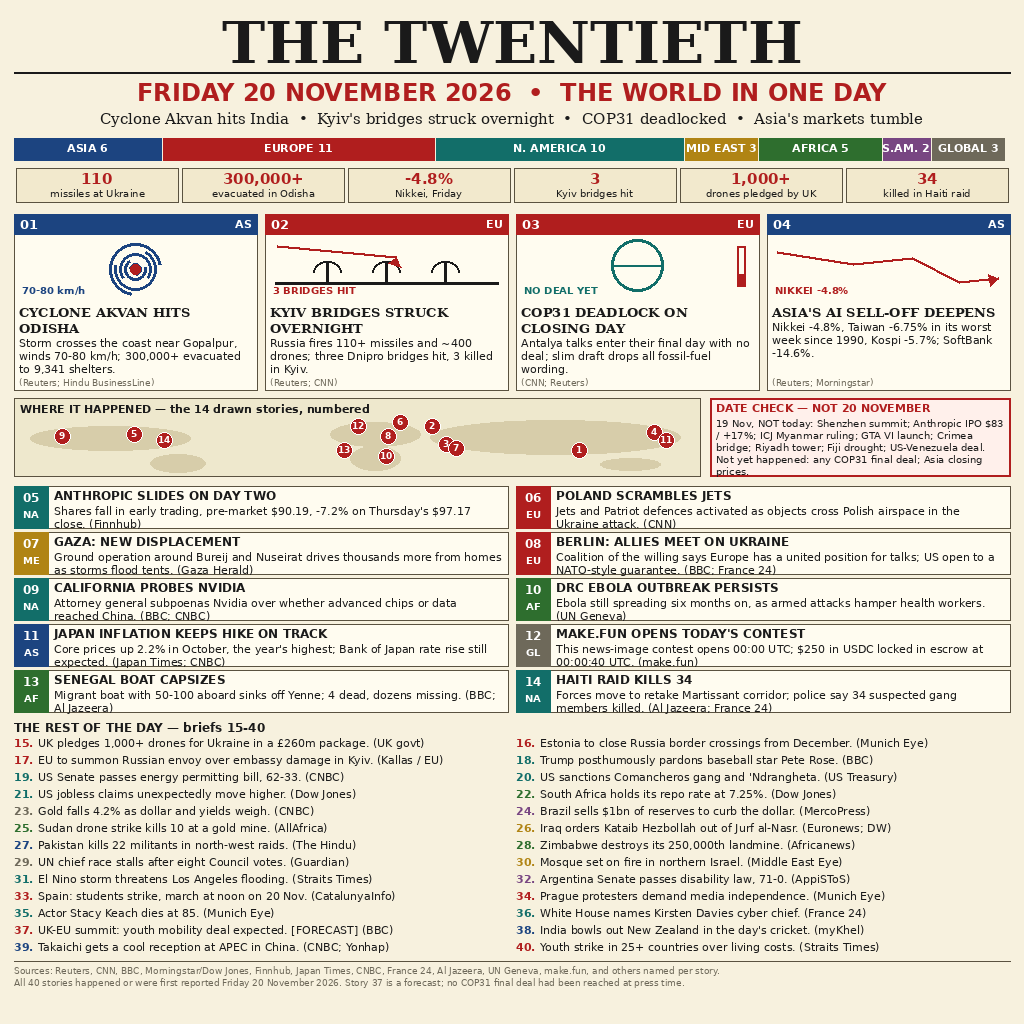
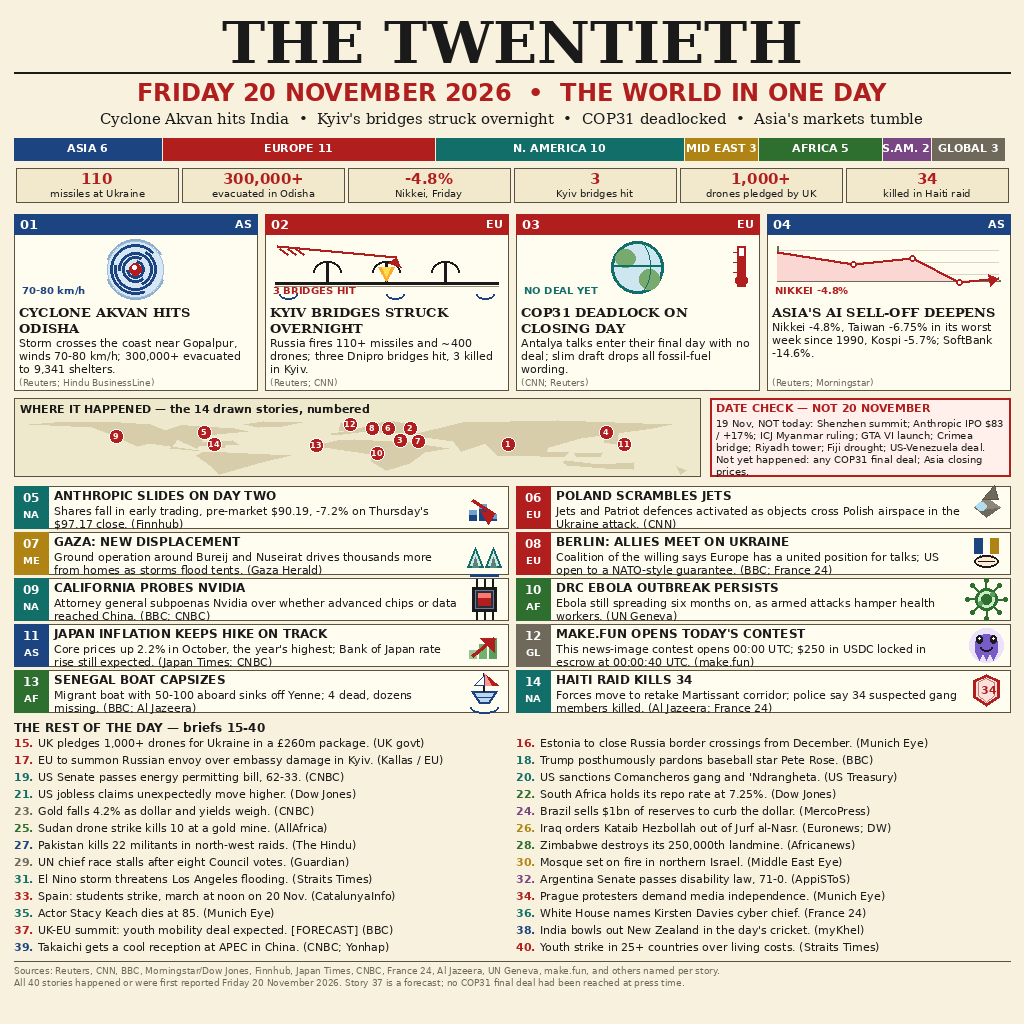
Update entry with polished versions

diff --git a/generate.py b/generate.py
@@ -124,104 +124,234 @@ def wrap(draw, text, fnt, width):
         lines.append(cur)
     return lines
 
-def draw_illus(d, idx, x, y, w, h):
-    """Code-drawn vector illustration per story, inside box (x,y,w,h)."""
+def draw_illus(d, idx, x, y, w, h, cap=True):
+    """Code-drawn vector illustration per story, inside box (x,y,w,h).
+    cap=False draws the icon without its caption line (feature rows)."""
     cx, cy = x + w // 2, y + h // 2
     if idx == 1:  # cyclone spiral
-        for r in range(6, min(w, h) // 2, 5):
+        rr = min(w, h) // 2 - 3
+        d.ellipse([cx - rr, cy - rr, cx + rr, cy + rr], fill=(214, 230, 244))
+        d.ellipse([cx - rr, cy - rr, cx + rr, cy + rr], outline=(160, 190, 220), width=1)
+        for r in range(5, rr, 4):
             a0 = r * 0.55
             d.arc([cx - r, cy - r, cx + r, cy + r], math.degrees(a0), math.degrees(a0) + 250,
                   fill=BLUE, width=3)
-        d.ellipse([cx - 5, cy - 5, cx + 5, cy + 5], fill=RED)
-        d.text((x + 4, y + h - 16), "70-80 km/h", font=SANS_B(10), fill=BLUE)
+        d.arc([cx - rr - 2, cy - rr - 2, cx + rr + 2, cy + rr + 2], 20, 160, fill=(140, 175, 210), width=2)
+        d.arc([cx - rr - 2, cy - rr - 2, cx + rr + 2, cy + rr + 2], 200, 330, fill=(140, 175, 210), width=2)
+        d.ellipse([cx - 6, cy - 6, cx + 6, cy + 6], fill=RED)
+        d.ellipse([cx - 3, cy - 4, cx + 1, cy], fill=(255, 255, 255))
+        if cap:
+            d.text((x + 4, y + h - 16), "70-80 km/h", font=SANS_B(10), fill=BLUE)
     elif idx == 2:  # bridge + missile
+        ar = 14 if cap else 6
         d.line([x + 6, cy + 14, x + w - 6, cy + 14], fill=INK, width=3)
+        d.line([x + 6, cy + 17, x + w - 6, cy + 17], fill=(150, 140, 120), width=1)
         for px in (x + w * 0.25, x + w * 0.5, x + w * 0.75):
             d.line([px, cy + 14, px, cy - 8], fill=INK, width=3)
-            d.arc([px - 14, cy - 8, px + 14, cy + 14], 180, 360, fill=INK, width=2)
+            d.arc([px - ar, cy - 8, px + ar, cy + 14], 180, 360, fill=INK, width=2)
+        if cap:
+            d.polygon([(x + w * 0.5 - 8, cy - 2), (x + w * 0.5 + 8, cy - 2), (x + w * 0.5, cy + 12)],
+                      fill=(255, 170, 40))
+            d.polygon([(x + w * 0.5 - 4, cy - 2), (x + w * 0.5 + 4, cy - 2), (x + w * 0.5, cy + 8)],
+                      fill=(255, 220, 80))
+            for dx in (0, 8, 16):
+                d.line([x + 10 + dx, y + 10, x + 18 + dx, y + 16], fill=RED, width=2)
+            for wx in (x + 10, x + w // 2, x + w - 28):
+                d.arc([wx, cy + 20, wx + 18, cy + 30], 0, 180, fill=BLUE, width=2)
         d.line([x + 8, y + 8, cx + 10, cy - 12], fill=RED, width=3)
         d.polygon([(cx + 10, cy - 12), (cx + 2, cy - 6), (cx + 14, cy - 2)], fill=RED)
-        d.text((x + 4, y + h - 16), "3 BRIDGES HIT", font=SANS_B(10), fill=RED)
+        if cap:
+            d.text((x + 4, y + h - 16), "3 BRIDGES HIT", font=SANS_B(10), fill=RED)
     elif idx == 3:  # globe + thermometer
-        d.ellipse([cx - 26, cy - 30, cx + 26, cy + 22], outline=TEAL, width=3)
-        d.arc([cx - 26, cy - 30, cx + 26, cy + 22], 200, 340, fill=TEAL, width=2)
-        d.line([cx - 26, cy - 4, cx + 26, cy - 4], fill=TEAL, width=2)
-        d.rectangle([x + w - 18, y + 8, x + w - 10, y + h - 14], outline=RED, width=2)
-        d.rectangle([x + w - 16, y + h - 26, x + w - 12, y + h - 16], fill=RED)
-        d.text((x + 4, y + h - 16), "NO DEAL YET", font=SANS_B(10), fill=TEAL)
+        gr = 26 if cap else 14
+        gcx = cx if cap else cx - 4
+        d.ellipse([gcx - gr, cy - gr - 2, gcx + gr, cy + gr - 2], fill=(205, 230, 240))
+        d.ellipse([gcx - gr, cy - gr - 2, gcx + gr, cy + gr - 2], outline=TEAL, width=3)
+        d.ellipse([gcx - gr + 4, cy - gr + 6, gcx - 2, cy - 2], fill=(120, 170, 110))
+        d.ellipse([gcx + 2, cy, gcx + gr - 4, cy + gr - 6], fill=(120, 170, 110))
+        d.line([gcx - gr, cy - 4, gcx + gr, cy - 4], fill=TEAL, width=2)
+        d.arc([gcx - gr // 2, cy - gr - 2, gcx + gr // 2, cy + gr - 2], 270, 90, fill=TEAL, width=1)
+        if cap:
+            d.rectangle([x + w - 18, y + 8, x + w - 10, y + h - 14], fill=(255, 255, 255), outline=RED, width=2)
+            d.rectangle([x + w - 16, y + 18, x + w - 12, y + h - 18], fill=RED)
+            d.ellipse([x + w - 20, y + h - 26, x + w - 8, y + h - 14], fill=RED)
+            for ty in (y + 14, y + 24, y + 34):
+                d.line([x + w - 22, ty, x + w - 18, ty], fill=RED, width=1)
+            d.text((x + 4, y + h - 16), "NO DEAL YET", font=SANS_B(10), fill=TEAL)
     elif idx == 4:  # falling chart
+        for gy in (y + 12, y + 24, y + 36):
+            d.line([x + 6, gy, x + w - 8, gy], fill=(220, 212, 190), width=1)
+        d.line([x + 6, y + 8, x + 6, y + h - 20], fill=GREY, width=2)
+        d.line([x + 6, y + h - 20, x + w - 6, y + h - 20], fill=GREY, width=2)
         pts = [(x + 6, y + 14), (x + w * 0.35, y + 26), (x + w * 0.6, y + 20),
                (x + w * 0.8, y + 44), (x + w - 8, y + h - 22)]
+        if cap:
+            d.polygon(pts + [(x + w - 8, y + h - 20), (x + 6, y + h - 20)], fill=(250, 215, 210))
         d.line(pts, fill=RED, width=3, joint="curve")
+        for px, py in pts[1:-1]:
+            d.ellipse([px - 3, py - 3, px + 3, py + 3], fill=(255, 255, 255), outline=RED, width=2)
         d.polygon([(x + w - 8, y + h - 22), (x + w - 18, y + h - 26), (x + w - 16, y + h - 14)],
                   fill=RED)
-        d.text((x + 4, y + h - 16), "NIKKEI -4.8%", font=SANS_B(10), fill=RED)
+        if cap:
+            d.text((x + 4, y + h - 16), "NIKKEI -4.8%", font=SANS_B(10), fill=RED)
     elif idx == 5:  # stock arrow down
-        d.rectangle([x + 8, y + h - 34, x + 20, y + h - 18], fill=BLUE)
-        d.rectangle([x + 26, y + h - 44, x + 38, y + h - 18], fill=BLUE)
-        d.rectangle([x + 44, y + h - 28, x + 56, y + h - 18], fill=BLUE)
-        d.line([x + 8, y + 12, x + w - 10, y + h - 30], fill=RED, width=3)
-        d.polygon([(x + w - 10, y + h - 30), (x + w - 24, y + h - 34), (x + w - 16, y + h - 16)],
+        bw5 = 12 if cap else 7
+        base5 = y + h - 18 if cap else y + h - 6
+        bars5 = [(x + 8, base5 - 16, 16), (x + 26, base5 - 26, 26), (x + 44, base5 - 10, 10)] if cap else \
+                [(x + 5, base5 - 10, 10), (x + 15, base5 - 16, 16), (x + 25, base5 - 6, 6)]
+        for bx, by, bh in bars5:
+            d.rectangle([bx, by, bx + bw5, base5], fill=BLUE)
+            d.rectangle([bx, by, bx + bw5, by + 4], fill=(110, 160, 210))
+        d.line([x + 8, y + 12, x + w - 10, y + h - 30 if cap else y + h - 12], fill=RED, width=3)
+        d.polygon([(x + w - 10, y + h - 30 if cap else y + h - 12),
+                   (x + w - 24, y + h - 34 if cap else y + h - 16),
+                   (x + w - 16, y + h - 16 if cap else y + h - 2)],
                   fill=RED)
-        d.text((x + 4, y + h - 16), "ANT -7.2% DAY 2", font=SANS_B(10), fill=RED)
+        if cap:
+            d.ellipse([x + 8, y + 12, x + 14, y + 18], fill=RED)
+            d.text((x + 4, y + h - 16), "ANT -7.2% DAY 2", font=SANS_B(10), fill=RED)
     elif idx == 6:  # jet
+        if cap:
+            d.ellipse([x + 6, y + 4, x + 26, y + 14], fill=(235, 240, 245))
+            d.ellipse([x + w - 34, y + 2, x + w - 14, y + 12], fill=(235, 240, 245))
         d.polygon([(x + 8, cy), (x + w - 20, cy - 10), (x + w - 6, cy), (x + w - 20, cy + 10)],
                   fill=GREY)
+        d.polygon([(x + 8, cy), (x + w - 20, cy - 10), (x + w - 6, cy), (x + w - 20, cy + 2)],
+                  fill=(140, 135, 120))
         d.polygon([(cx - 4, cy - 8), (cx + 8, cy - 22), (cx + 12, cy - 8)], fill=GREY)
-        d.line([x + 6, cy + 12, x + w - 8, cy + 12], fill=BLUE, width=2)
-        d.text((x + 4, y + h - 16), "AIRSPACE BREACH", font=SANS_B(10), fill=BLUE)
+        d.polygon([(cx - 4, cy - 8), (cx + 8, cy - 22), (cx + 12, cy - 8)], outline=(90, 85, 70), width=1)
+        d.ellipse([x + w - 30, cy - 5, x + w - 20, cy + 3], fill=(180, 220, 240))
+        if cap:
+            for dx in (0, 14, 28):
+                d.line([x + 8 + dx, cy + 16, x + 16 + dx, cy + 16], fill=BLUE, width=2)
+            d.line([x + 6, cy + 12, x + w - 8, cy + 12], fill=BLUE, width=2)
+            d.text((x + 4, y + h - 16), "AIRSPACE BREACH", font=SANS_B(10), fill=BLUE)
     elif idx == 7:  # tents / displacement
-        for i, tx in enumerate((x + 10, x + w // 2 - 8, x + w - 34)):
-            d.polygon([(tx, cy + 16), (tx + 12, cy - 10), (tx + 24, cy + 16)],
-                      outline=TEAL, width=2, fill=(210, 230, 225))
+        if cap:
+            for i, tx in enumerate((x + 10, x + w // 2 - 8, x + w - 34)):
+                d.polygon([(tx, cy + 16), (tx + 12, cy - 10), (tx + 24, cy + 16)],
+                          outline=TEAL, width=2, fill=(210, 230, 225))
+                d.polygon([(tx + 8, cy + 16), (tx + 12, cy + 4), (tx + 16, cy + 16)],
+                          fill=(90, 130, 125))
+                d.line([tx + 12, cy - 10, tx + 12, cy - 16], fill=TEAL, width=1)
+            for rx, ry in ((x + 20, y + 6), (x + 60, y + 4), (x + 110, y + 6), (x + 170, y + 4), (x + 210, y + 6)):
+                d.line([rx, ry, rx - 2, ry + 6], fill=BLUE, width=2)
+        else:
+            for tx in (x + 3, x + 21):
+                d.polygon([(tx, cy + 14), (tx + 8, cy - 6), (tx + 16, cy + 14)],
+                          outline=TEAL, width=2, fill=(210, 230, 225))
+                d.polygon([(tx + 5, cy + 14), (tx + 8, cy + 4), (tx + 11, cy + 14)],
+                          fill=(90, 130, 125))
+        d.ellipse([x + w - 30, cy + 20, x + w - 8, cy + 26], fill=(180, 210, 235)) if cap else None
         d.line([x + 6, cy + 22, x + w - 6, cy + 22], fill=BLUE, width=3)
-        d.text((x + 4, y + h - 16), "WINTER RAINS", font=SANS_B(10), fill=TEAL)
+        if cap:
+            d.text((x + 4, y + h - 16), "WINTER RAINS", font=SANS_B(10), fill=TEAL)
     elif idx == 8:  # handshake flags
-        d.rectangle([x + 8, y + 10, x + w // 2 - 4, y + 34], fill=BLUE)
-        d.rectangle([x + w // 2 + 4, y + 10, x + w - 8, y + 34], fill=GOLD)
-        d.line([x + 14, y + 44, cx, y + h - 22], fill=INK, width=3)
-        d.line([x + w - 14, y + 44, cx, y + h - 22], fill=INK, width=3)
-        d.text((x + 4, y + h - 16), "UNITED POSITION", font=SANS_B(10), fill=INK)
+        fb = y + 34 if cap else y + 20
+        d.rectangle([x + 8, y + 10 if cap else y + 4, x + w // 2 - 4, fb], fill=BLUE)
+        d.rectangle([x + w // 2 + 4, y + 10 if cap else y + 4, x + w - 8, fb], fill=GOLD)
+        if cap:
+            for sx in range(5):
+                d.ellipse([x + 14 + sx * 18, y + 16, x + 18 + sx * 18, y + 20], fill=(255, 220, 90))
+        d.line([x + 8, fb, x + w // 2 - 4, fb], fill=(255, 255, 255), width=1)
+        d.line([x + w // 2 + 4, fb, x + w - 8, fb], fill=(255, 255, 255), width=1)
+        hy = y + h - 24 if cap else cy + 8
+        d.polygon([(x + 14, y + 40 if cap else cy + 2), (cx - 6, y + 40 if cap else cy + 2),
+                   (cx, hy), (cx - 12, hy)], fill=BLUE)
+        d.polygon([(x + w - 14, y + 40 if cap else cy + 2), (cx + 6, y + 40 if cap else cy + 2),
+                   (cx, hy), (cx + 12, hy)], fill=GOLD)
+        d.ellipse([cx - 12, hy - 6, cx + 12, hy + 6], fill=(255, 235, 210), outline=INK, width=2)
+        d.line([cx - 8, hy, cx + 8, hy], fill=INK, width=1)
+        if cap:
+            d.text((x + 4, y + h - 16), "UNITED POSITION", font=SANS_B(10), fill=INK)
     elif idx == 9:  # chip
-        d.rectangle([cx - 16, cy - 16, cx + 16, cy + 16], outline=INK, width=3)
+        cs = 16 if cap else 12
+        d.rectangle([cx - cs, cy - cs, cx + cs, cy + cs], fill=(40, 45, 60), outline=INK, width=3)
+        d.rectangle([cx - cs + 3, cy - cs + 3, cx + cs - 3, cy + cs - 3], outline=(110, 120, 150), width=1)
         for i in range(3):
-            d.line([cx - 16 + i * 16, cy - 24, cx - 16 + i * 16, cy - 16], fill=INK, width=2)
-            d.line([cx - 16 + i * 16, cy + 16, cx - 16 + i * 16, cy + 24], fill=INK, width=2)
+            px = cx - cs + 6 + i * (2 * cs - 12) // 2 if cap else cx - cs + 4 + i * (2 * cs - 8) // 2
+            d.line([px, cy - cs - 8, px, cy - cs], fill=INK, width=2)
+            d.line([px, cy + cs, px, cy + cs + 8], fill=INK, width=2)
+            d.line([cx - cs - 8, cy - cs + 6 + i * (2 * cs - 12) // 2, cx - cs, cy - cs + 6 + i * (2 * cs - 12) // 2], fill=INK, width=2) if cap else None
+            d.line([cx + cs, cy - cs + 6 + i * (2 * cs - 12) // 2, cx + cs + 8, cy - cs + 6 + i * (2 * cs - 12) // 2], fill=INK, width=2) if cap else None
         d.rectangle([cx - 6, cy - 6, cx + 6, cy + 6], fill=RED)
-        d.text((x + 4, y + h - 16), "CHIP PROBE", font=SANS_B(10), fill=INK)
+        d.rectangle([cx - 6, cy - 6, cx + 6, cy - 2], fill=(255, 120, 110))
+        if cap:
+            d.text((cx - 3, cy + 10), "AI", font=SANS_B(8), fill=(255, 255, 255))
+            d.text((x + 4, y + h - 16), "CHIP PROBE", font=SANS_B(10), fill=INK)
     elif idx == 10:  # virus
-        d.ellipse([cx - 14, cy - 14, cx + 14, cy + 14], outline=GREEN, width=3)
+        vr = 14 if cap else 11
+        d.ellipse([cx - vr, cy - vr, cx + vr, cy + vr], fill=(200, 235, 200), outline=GREEN, width=3)
         for a in range(0, 360, 45):
             r = math.radians(a)
-            d.line([cx + 14 * math.cos(r), cy + 14 * math.sin(r),
-                    cx + 22 * math.cos(r), cy + 22 * math.sin(r)], fill=GREEN, width=2)
-        d.text((x + 4, y + h - 16), "6 MONTHS ON", font=SANS_B(10), fill=GREEN)
+            d.line([cx + vr * math.cos(r), cy + vr * math.sin(r),
+                    cx + (vr + 8) * math.cos(r), cy + (vr + 8) * math.sin(r)], fill=GREEN, width=2)
+            d.ellipse([cx + (vr + 8) * math.cos(r) - 2, cy + (vr + 8) * math.sin(r) - 2,
+                       cx + (vr + 8) * math.cos(r) + 2, cy + (vr + 8) * math.sin(r) + 2], fill=GREEN)
+        d.ellipse([cx - 5, cy - 5, cx + 5, cy + 5], fill=GREEN)
+        d.ellipse([cx - 8, cy + 2, cx - 4, cy + 6], fill=(90, 160, 90))
+        d.ellipse([cx + 4, cy - 7, cx + 8, cy - 3], fill=(90, 160, 90))
+        if cap:
+            d.text((x + 4, y + h - 16), "6 MONTHS ON", font=SANS_B(10), fill=GREEN)
     elif idx == 11:  # rising arrow / yen
-        d.line([x + 8, y + h - 20, x + w - 10, y + 12], fill=RED, width=3)
+        if cap:
+            for gy in (y + 12, y + 24, y + 36):
+                d.line([x + 6, gy, x + w - 8, gy], fill=(220, 212, 190), width=1)
+            d.rectangle([x + 14, y + 34, x + 30, y + h - 20], fill=(190, 220, 190))
+            d.rectangle([x + 40, y + 26, x + 56, y + h - 20], fill=(150, 200, 150))
+            d.rectangle([x + 66, y + 18, x + 82, y + h - 20], fill=(110, 180, 110))
+        else:
+            d.rectangle([x + 5, y + 24, x + 12, y + h - 6], fill=(150, 200, 150))
+            d.rectangle([x + 15, y + 18, x + 22, y + h - 6], fill=(110, 180, 110))
+            d.rectangle([x + 25, y + 12, x + 32, y + h - 6], fill=(90, 160, 90))
+        d.line([x + 8, y + h - 20 if cap else y + h - 8, x + w - 10, y + 12], fill=RED, width=3)
         d.polygon([(x + w - 10, y + 12), (x + w - 24, y + 12), (x + w - 10, y + 26)], fill=RED)
-        d.text((x + 4, y + h - 16), "CPI +2.2%", font=SANS_B(10), fill=RED)
+        if cap:
+            d.text((x + 4, y + h - 16), "CPI +2.2%", font=SANS_B(10), fill=RED)
     elif idx == 12:  # make.fun ghost
-        d.ellipse([cx - 18, cy - 20, cx + 18, cy + 8], fill=(120, 90, 200))
-        d.rectangle([cx - 18, cy - 4, cx + 18, cy + 18], fill=(120, 90, 200))
-        for i, gx in enumerate((cx - 18, cx - 6, cx + 6)):
-            d.polygon([(gx, cy + 18), (gx + 6, cy + 28), (gx + 12, cy + 18)],
+        gr12 = 20 if cap else 13
+        d.ellipse([cx - gr12 - 4, cy - gr12 - 4, cx + gr12 + 4, cy + gr12 + 4], fill=(235, 225, 250))
+        d.ellipse([cx - gr12 + 2, cy - gr12 + 2, cx + gr12 - 2, cy + gr12 - 6], fill=(120, 90, 200))
+        d.rectangle([cx - gr12 + 2, cy - 2, cx + gr12 - 2, cy + gr12 - 6], fill=(120, 90, 200))
+        tw = 12 if cap else 8
+        for gx in (cx - gr12 + 2, cx - tw // 2, cx + gr12 - 2 - tw):
+            d.polygon([(gx, cy + gr12 - 6), (gx + tw // 2, cy + gr12 + 2), (gx + tw, cy + gr12 - 6)],
                       fill=(120, 90, 200))
         d.ellipse([cx - 10, cy - 10, cx - 4, cy - 2], fill=INK)
         d.ellipse([cx + 4, cy - 10, cx + 10, cy - 2], fill=INK)
-        d.text((x + 4, y + h - 16), "$250 ESCROW", font=SANS_B(10), fill=(120, 90, 200))
+        d.ellipse([cx - 8, cy - 8, cx - 6, cy - 6], fill=(255, 255, 255))
+        d.ellipse([cx + 6, cy - 8, cx + 8, cy - 6], fill=(255, 255, 255))
+        d.arc([cx - 6, cy - 2, cx + 6, cy + 6], 0, 180, fill=INK, width=2)
+        if cap:
+            d.ellipse([x + w - 30, y + 8, x + w - 12, y + 26], fill=(255, 210, 80), outline=GOLD, width=2)
+            d.text((x + w - 23, y + 11), "$", font=SANS_B(11), fill=GOLD, anchor="ma")
+            d.text((x + 4, y + h - 16), "$250 ESCROW", font=SANS_B(10), fill=(120, 90, 200))
     elif idx == 13:  # boat + waves
-        d.polygon([(cx - 20, cy), (cx + 20, cy), (cx + 12, cy + 12), (cx - 12, cy + 12)],
-                  outline=BLUE, width=2)
+        bw13 = 20 if cap else 13
+        d.polygon([(cx - bw13, cy), (cx + bw13, cy), (cx + bw13 - 8, cy + 12), (cx - bw13 + 8, cy + 12)],
+                  outline=BLUE, width=2, fill=(190, 215, 240))
+        d.line([cx - bw13 + 4, cy + 6, cx + bw13 - 4, cy + 6], fill=BLUE, width=1)
         d.line([cx, cy, cx, cy - 18], fill=INK, width=2)
         d.polygon([(cx, cy - 18), (cx + 14, cy - 6), (cx, cy - 6)], fill=RED)
-        for wy in (cy + 20, cy + 28):
+        d.polygon([(cx, cy - 18), (cx + 7, cy - 6), (cx, cy - 6)], fill=(255, 150, 140))
+        d.polygon([(cx, cy - 16), (cx - 10, cy - 6), (cx, cy - 6)], fill=(255, 255, 255), outline=BLUE, width=1)
+        for wy in ((cy + 20, cy + 28) if cap else (cy + 16,)):
             d.arc([x + 6, wy - 6, x + w - 6, wy + 6], 0, 180, fill=BLUE, width=2)
-        d.text((x + 4, y + h - 16), "4 DEAD, DOZENS LOST", font=SANS_B(9), fill=BLUE)
+        if cap:
+            d.text((x + 4, y + h - 16), "4 DEAD, DOZENS LOST", font=SANS_B(9), fill=BLUE)
     else:  # 14 shield / raid
-        d.polygon([(cx, y + 8), (cx + 20, y + 16), (cx + 20, y + 34), (cx, y + 52),
-                   (cx - 20, y + 34), (cx - 20, y + 16)], outline=RED, width=3)
-        d.text((cx - 5, cy - 8), "34", font=SANS_B(16), fill=RED)
-        d.text((x + 4, y + h - 16), "CORRIDOR RETAKEN", font=SANS_B(9), fill=RED)
+        sh = 20 if cap else 13
+        d.polygon([(cx, y + 8 if cap else y + 2), (cx + sh, y + 16 if cap else y + 8),
+                   (cx + sh, y + 34 if cap else cy + 6), (cx, y + 52 if cap else y + h - 4),
+                   (cx - sh, y + 34 if cap else cy + 6), (cx - sh, y + 16 if cap else y + 8)],
+                  fill=(250, 225, 220), outline=RED, width=3)
+        d.polygon([(cx, y + 12 if cap else y + 6), (cx + sh - 5, y + 18 if cap else y + 10),
+                   (cx + sh - 5, y + 32 if cap else cy + 4), (cx, y + 46 if cap else y + h - 8),
+                   (cx - sh + 5, y + 32 if cap else cy + 4), (cx - sh + 5, y + 18 if cap else y + 10)],
+                  outline=(200, 120, 110), width=1)
+        d.text((cx - 5, cy - 8), "34", font=SANS_B(16 if cap else 11), fill=RED)
+        if cap:
+            d.text((x + 4, y + h - 16), "CORRIDOR RETAKEN", font=SANS_B(9), fill=RED)
 
 def main():
     img = Image.new("RGB", (W, H), CREAM)
@@ -288,21 +418,49 @@ def main():
     my0 = 398
     d.rectangle([M, my0, 700, my0 + 78], outline=LINE, width=1, fill=(238, 232, 205))
     d.text((M + 6, my0 + 4), "WHERE IT HAPPENED — the 14 drawn stories, numbered", font=SANS_B(11), fill=INK)
-    # rough continents
-    d.ellipse([30, my0 + 28, 190, my0 + 52], fill=(215, 205, 170))   # N America
-    d.ellipse([150, my0 + 56, 205, my0 + 74], fill=(215, 205, 170))  # S America
-    d.ellipse([330, my0 + 24, 420, my0 + 48], fill=(215, 205, 170))  # Europe/Africa upper
-    d.ellipse([350, my0 + 48, 400, my0 + 72], fill=(215, 205, 170))  # Africa
-    d.ellipse([430, my0 + 22, 680, my0 + 56], fill=(215, 205, 170))  # Asia
-    d.ellipse([600, my0 + 60, 660, my0 + 72], fill=(215, 205, 170))  # Oceania
-    pins = {1: (565, 52), 2: (418, 28), 3: (432, 46), 4: (640, 34), 5: (120, 36),
-            6: (386, 24), 7: (442, 50), 8: (374, 38), 9: (48, 38), 10: (372, 58),
-            11: (652, 42), 12: (344, 28), 13: (330, 52), 14: (150, 42)}
+    # simplified real coastlines, hand-plotted in the band's coordinate space
+    # (vertical relief exaggerated so peninsulas read in this flat band)
+    d.polygon([(29, my0 + 26), (54, my0 + 24), (120, my0 + 24), (150, my0 + 26), (165, my0 + 32),
+               (180, my0 + 27), (187, my0 + 27), (234, my0 + 30), (247, my0 + 33), (206, my0 + 37),
+               (196, my0 + 50), (177, my0 + 41), (170, my0 + 50), (192, my0 + 52), (198, my0 + 52),
+               (149, my0 + 45), (137, my0 + 48), (113, my0 + 37), (92, my0 + 29)],
+              fill=(215, 205, 170))  # N America (Hudson Bay notch, Florida, Mexico, Baja)
+    d.polygon([(244, my0 + 26), (263, my0 + 23), (301, my0 + 24), (282, my0 + 28), (258, my0 + 29)],
+              fill=(215, 205, 170))  # Greenland
+    d.polygon([(194, my0 + 44), (232, my0 + 42), (238, my0 + 46), (198, my0 + 48)],
+              fill=(215, 205, 170))  # Cuba
+    d.polygon([(212, my0 + 45), (226, my0 + 45), (224, my0 + 49), (212, my0 + 49)],
+              fill=(215, 205, 170))  # Hispaniola (Haiti)
+    d.polygon([(202, my0 + 54), (226, my0 + 54), (290, my0 + 57), (257, my0 + 65), (219, my0 + 76),
+               (211, my0 + 68), (196, my0 + 57)], fill=(215, 205, 170))  # S America
+    d.polygon([(331, my0 + 36), (331, my0 + 35), (344, my0 + 33), (367, my0 + 28), (388, my0 + 22),
+               (405, my0 + 25), (405, my0 + 34), (392, my0 + 35), (380, my0 + 34), (366, my0 + 33),
+               (342, my0 + 36)], fill=(215, 205, 170))  # Europe
+    d.polygon([(340, my0 + 25), (349, my0 + 25), (347, my0 + 32), (339, my0 + 32)],
+              fill=(215, 205, 170))  # UK
+    d.polygon([(337, my0 + 42), (354, my0 + 41), (409, my0 + 44), (448, my0 + 50), (424, my0 + 54),
+               (409, my0 + 65), (386, my0 + 72), (371, my0 + 63), (371, my0 + 56), (324, my0 + 49),
+               (316, my0 + 47)], fill=(215, 205, 170))  # Africa
+    d.polygon([(409, my0 + 37), (462, my0 + 24), (557, my0 + 22), (671, my0 + 26), (652, my0 + 30),
+               (580, my0 + 40), (548, my0 + 49), (544, my0 + 57), (497, my0 + 57), (485, my0 + 45),
+               (461, my0 + 53), (453, my0 + 43), (432, my0 + 40)], fill=(215, 205, 170))  # Asia
+    d.polygon([(604, my0 + 29), (618, my0 + 33), (616, my0 + 46), (604, my0 + 44)],
+              fill=(215, 205, 170))  # Japan
+    d.polygon([(538, my0 + 54), (568, my0 + 54), (564, my0 + 58), (540, my0 + 58)],
+              fill=(215, 205, 170))  # Indonesia west
+    d.polygon([(574, my0 + 55), (602, my0 + 54), (600, my0 + 58), (576, my0 + 58)],
+              fill=(215, 205, 170))  # Indonesia east
+    d.polygon([(565, my0 + 62), (599, my0 + 66), (633, my0 + 64), (633, my0 + 71), (605, my0 + 70),
+               (567, my0 + 67), (563, my0 + 64)], fill=(215, 205, 170))  # Australia
+    d.polygon([(676, my0 + 68), (686, my0 + 72), (680, my0 + 76)], fill=(215, 205, 170))  # NZ
+    pins = {1: (494, 46), 2: (396, 30), 3: (386, 42), 4: (592, 34), 5: (190, 34),
+            6: (374, 30), 7: (404, 43), 8: (358, 30), 9: (102, 38), 10: (363, 55),
+            11: (610, 46), 12: (336, 26), 13: (302, 47), 14: (200, 46)}
     for n, (px, py) in pins.items():
         px = M + px
         py = my0 + py
-        d.ellipse([px - 8, py - 8, px + 8, py + 8], fill=RED, outline=(255, 255, 255), width=1)
-        d.text((px, py - 6), str(n), font=SANS_B(9), fill=(255, 255, 255), anchor="ma")
+        d.ellipse([px - 7, py - 7, px + 7, py + 7], fill=RED, outline=(255, 255, 255), width=1)
+        d.text((px, py - 5), str(n), font=SANS_B(8), fill=(255, 255, 255), anchor="ma")
     # DATE CHECK box
     dx0, dy0 = 710, my0
     d.rectangle([dx0, dy0, W - M, dy0 + 78], outline=RED, width=2, fill=(255, 240, 235))
@@ -326,11 +484,12 @@ def main():
         d.text((x + 17, y + 4), f"{num:02d}", font=SANS_B(12), fill=(255, 255, 255), anchor="ma")
         d.text((x + 17, y + 22), reg, font=SANS_B(10), fill=(255, 255, 255), anchor="ma")
         d.text((x + 40, y + 2), head, font=SANS_B(12), fill=INK)
-        lines = wrap(d, summ + f" ({src})", SANS(11), fw - 46)
+        lines = wrap(d, summ + f" ({src})", SANS(11), fw - 90)
         yy = y + 18
         for ln in lines[:2]:
             d.text((x + 40, yy), ln, font=SANS(11), fill=INK)
             yy += 13
+        draw_illus(d, num, x + fw - 44, y + 2, 40, 38, cap=False)
     # --- briefs 15-40: 2 cols x 13 rows ---
     by = fy + 5 * rh + 4
     d.text((M, by), "THE REST OF THE DAY — briefs 15-40", font=SANS_B(12), fill=INK)
